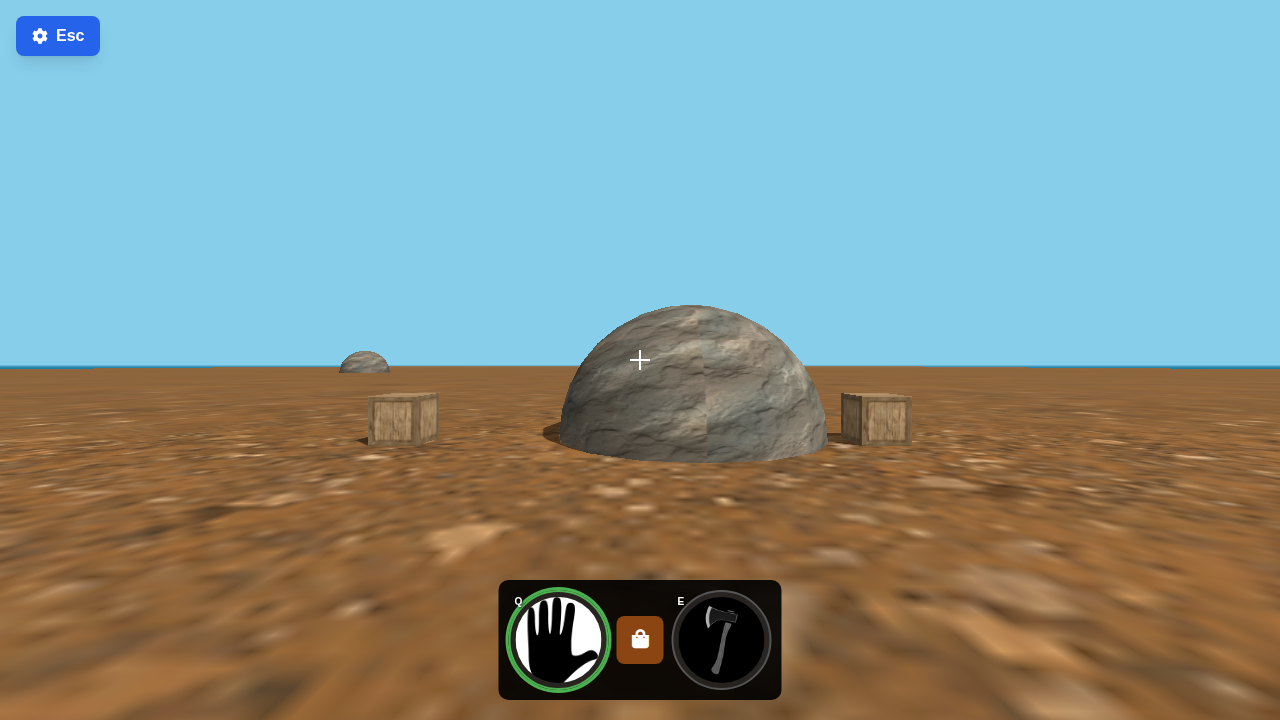
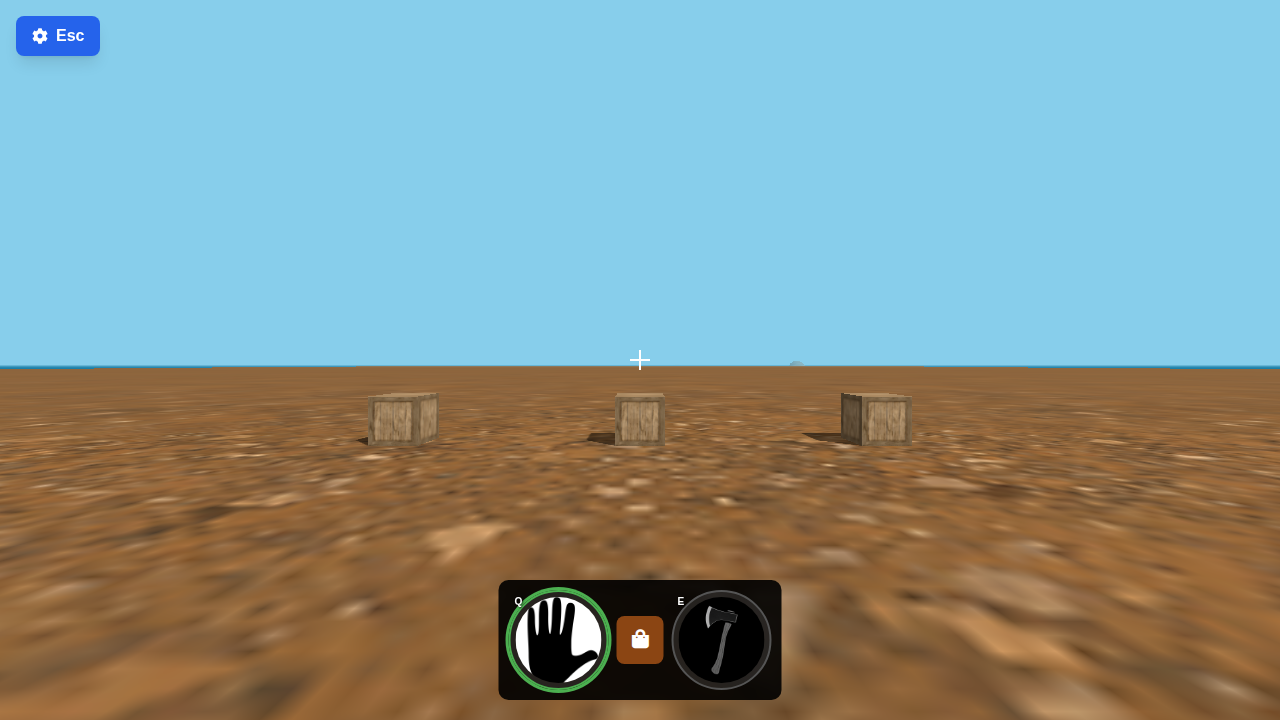
Fix stone deposit visibility, collision, and respawn
This commit fixes three bugs related to the stone deposits:

1.  **Visibility:** The flattened stone deposit was clipping through the ground, making it invisible. This was fixed by increasing the Y-offset of the flattened mesh.
2.  **Collision:** The flattened stone deposit was not solid, allowing the player and other objects to pass through it. This was fixed by adding a static cylinder physics body to the flattened stone deposit.
3.  **Respawn:** The stone deposit was not respawning after being destroyed. This was fixed by replacing the frame-rate dependent timer with a more reliable time-based one using the physics engine's clock.

Changed region(s): [[0.4062, 0.4278, 0.6562, 0.6417], [0.25, 0.4889, 0.3125, 0.5194]]

diff --git a/index.htm b/index.htm
@@ -2379,9 +2379,10 @@
                     stoneDeposits.push({
                         x: x, z: z, y: 0,
                         flattened: false,
-                        regenerationTimer: 0,
+                        regenerationStartTime: 0,
                         domeMeshes: domeMeshes,
-                        flattenedMeshes: []
+                        flattenedMeshes: [],
+                        flattenedBody: null // Corpo de física para o estado achatado
                     });
                 }
                 updateIslandGeometry(); // Chama para incorporar as cúpulas na física
@@ -2487,12 +2488,23 @@
                         if (destroyTargetDeposit) {
                             position = new THREE.Vector3(destroyTargetDeposit.x, destroyTargetDeposit.y, destroyTargetDeposit.z);
                             destroyTargetDeposit.flattened = true;
-                            destroyTargetDeposit.regenerationTimer = 60; // Inicia o temporizador de 1 minuto
+                            destroyTargetDeposit.regenerationStartTime = world.time; // Inicia o temporizador de 1 minuto
                             updateIslandGeometry(); // Atualiza a física para remover a cúpula de colisão
 
                             const flattenedGeometry = new THREE.CylinderGeometry(stoneDepositRadius, stoneDepositRadius, 0.1, 16);
                             const flattenedMesh = new THREE.Mesh(flattenedGeometry, flattenedStoneDepositMaterial);
                             flattenedMesh.receiveShadow = true;
+
+                            // Cria o corpo de física para o estado achatado
+                            const flattenedShape = new CANNON.Cylinder(stoneDepositRadius, stoneDepositRadius, 0.1, 16);
+                            const flattenedBody = new CANNON.Body({
+                                mass: 0, // Estático
+                                shape: flattenedShape,
+                                material: islandMaterial, // Reutiliza o material da ilha
+                                position: new CANNON.Vec3(position.x, position.y + 0.05, position.z)
+                            });
+                            world.addBody(flattenedBody);
+                            destroyTargetDeposit.flattenedBody = flattenedBody; // Armazena a referência
 
                             for (let j = -Math.floor(numTiles / 2); j <= Math.floor(numTiles / 2); j++) {
                                 for (let k = -Math.floor(numTiles / 2); k <= Math.floor(numTiles / 2); k++) {
@@ -2580,10 +2592,15 @@
 
             // NOVO: Lógica de regeneração dos depósitos de pedra
             stoneDeposits.forEach(deposit => {
-                if (deposit.flattened && deposit.regenerationTimer > 0) {
-                    deposit.regenerationTimer -= 1 / 60; // Subtrai o tempo do frame
-                    if (deposit.regenerationTimer <= 0) {
+                if (deposit.flattened && deposit.regenerationStartTime > 0) {
+                    if (world.time - deposit.regenerationStartTime >= 60) {
                         deposit.flattened = false;
+                        deposit.regenerationStartTime = 0; // Reseta o temporizador
+                        // Remove o corpo de física do estado achatado
+                        if (deposit.flattenedBody) {
+                            world.removeBody(deposit.flattenedBody);
+                            deposit.flattenedBody = null;
+                        }
                         // Remove e descarta as malhas achatadas
                         deposit.flattenedMeshes.forEach(item => {
                             scene.remove(item.mesh);
@@ -2746,7 +2763,7 @@
                     if (item.mesh.visible) {
                         item.mesh.position.set(
                             deposit.x + item.offsetX - visualOffsetX,
-                            deposit.y + 0.01, // Um pouco acima da base para evitar z-fighting
+                            deposit.y + 0.05, // Um pouco acima da base para evitar z-fighting
                             deposit.z + item.offsetZ - visualOffsetZ
                         );
                     }

diff --git a/jules-scratch/verification/verify_dono_fix.py b/jules-scratch/verification/verify_dono_fix.py
@@ -1,0 +1,41 @@
+
+import re
+from playwright.sync_api import sync_playwright, Page, expect
+
+def run(playwright):
+    browser = playwright.chromium.launch(headless=True)
+    context = browser.new_context()
+    page = context.new_page()
+
+    # Go to the local HTML file
+    page.goto("file:///app/index.htm", wait_until="load")
+
+    # Click the start button
+    page.locator("#startButton").click()
+
+    # Wait for the game to be ready by checking for the crosshair
+    expect(page.locator("#crosshair")).to_be_visible(timeout=15000)
+
+    # Use evaluate to dispatch a KeyboardEvent for pressing "e"
+    page.evaluate("""() => {
+        document.dispatchEvent(new KeyboardEvent('keydown', {'key': 'e'}));
+    }""")
+
+    # Position the mouse over the center of the canvas (where the crosshair is)
+    page.mouse.move(page.viewport_size['width'] / 2, page.viewport_size['height'] / 2)
+
+    # Simulate a long press to destroy the stone deposit
+    page.mouse.down()
+    page.wait_for_timeout(2000)  # Hold for 2 seconds
+    page.mouse.up()
+
+    # Wait for the "dono" to respawn
+    page.wait_for_timeout(65000) # 65 seconds to be safe
+
+    # Take a screenshot
+    page.screenshot(path="jules-scratch/verification/verification.png")
+
+    browser.close()
+
+with sync_playwright() as playwright:
+    run(playwright)
